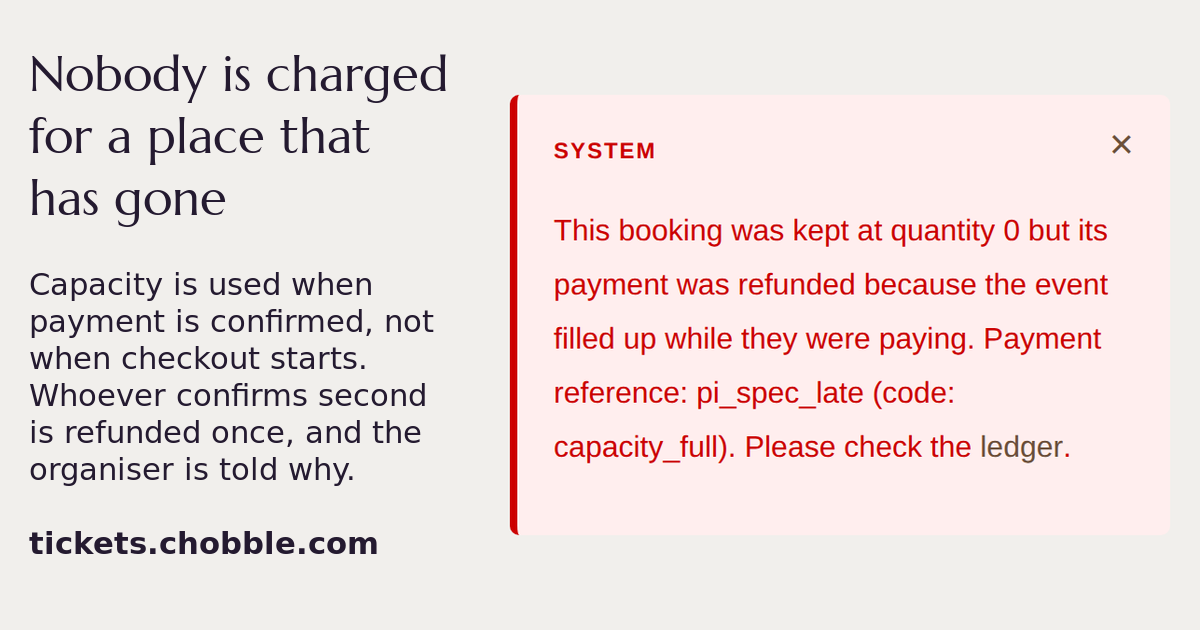
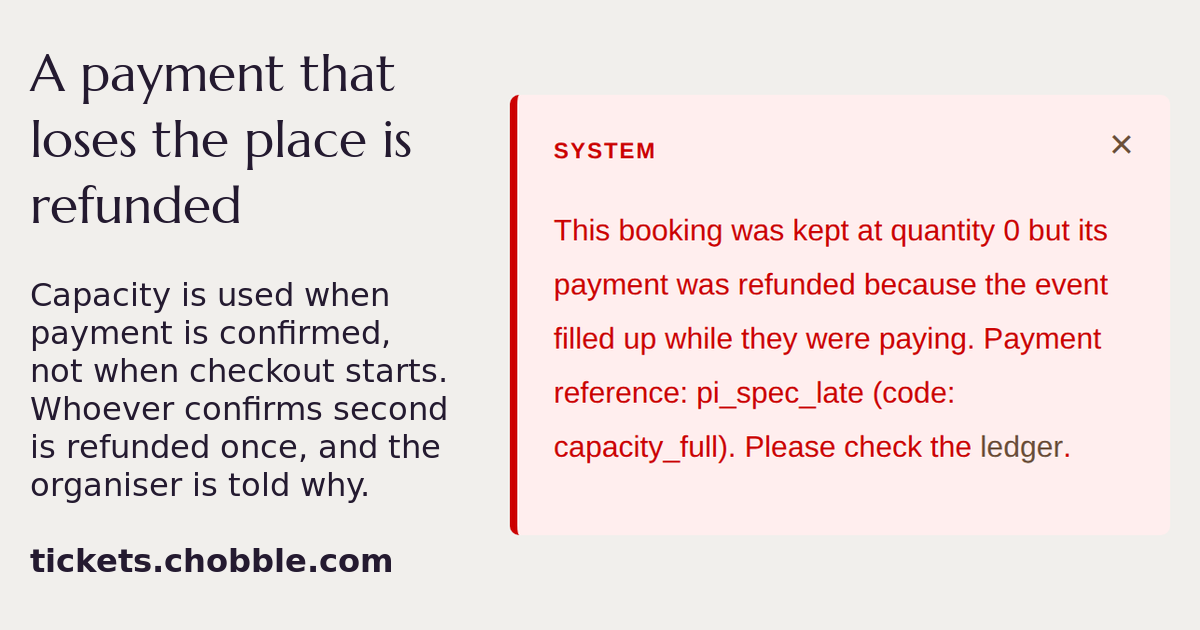
Say the losing payment is refunded, not that nobody is charged
Claude-Session: https://claude.ai/code/session_01Sy7Q7X9UJsKKyCP9FCAtqK

diff --git a/scripts/social-screenshot-copy.js b/scripts/social-screenshot-copy.js
@@ -128,7 +128,7 @@ export const SOCIAL_SCREENSHOT_COPY = {
     body: "Select Stripe, Square or SumUp. Saved credentials remain available when the organiser switches provider.",
   },
   "place-lost-while-paying": {
-    heading: "Nobody is charged for a place that has gone",
+    heading: "A payment that loses the place is refunded",
     body: "Capacity is used when payment is confirmed, not when checkout starts. Whoever confirms second is refunded once, and the organiser is told why.",
   },
   "promo-codes-and-add-ons": {
